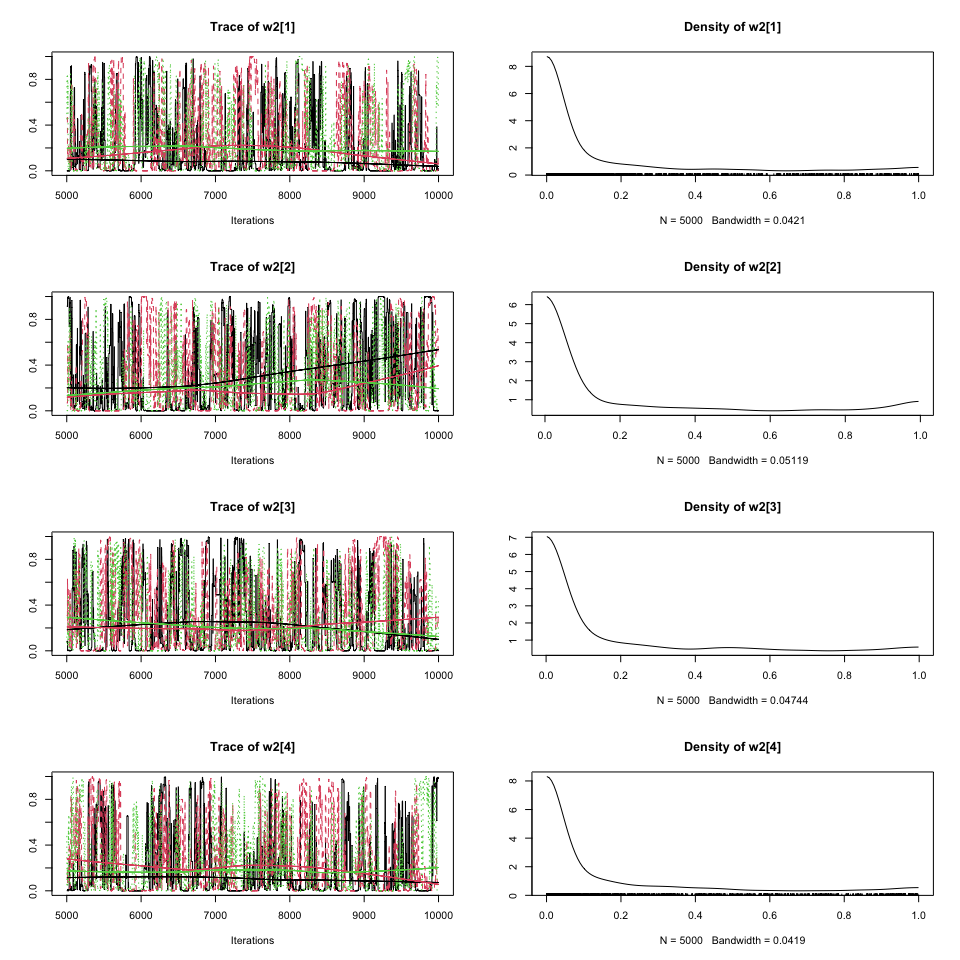
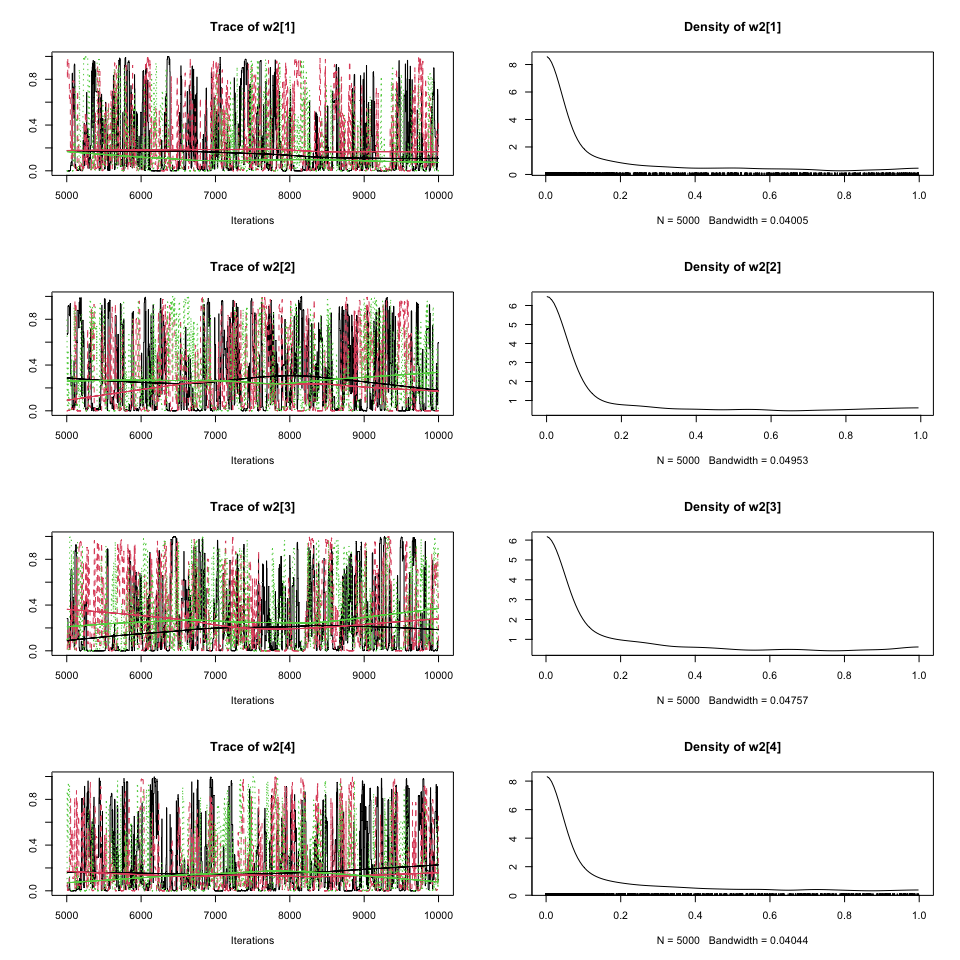
added new readme render

diff --git a/README.md b/README.md
@@ -64,8 +64,18 @@ You can install the development version of fgwqsr from
 # install.packages("devtools")
 remotes::install_github("Daniel-Rud/fgwqsr")
 #> Using github PAT from envvar GITHUB_PAT. Use `gitcreds::gitcreds_set()` and unset GITHUB_PAT in .Renviron (or elsewhere) if you want to use the more secure git credential store instead.
-#> Skipping install of 'fgwqsr' from a github remote, the SHA1 (883d80c2) has not changed since last install.
-#>   Use `force = TRUE` to force installation
+#> Downloading GitHub repo Daniel-Rud/fgwqsr@HEAD
+#> 
+#> ── R CMD build ─────────────────────────────────────────────────────────────────
+#>      checking for file ‘/private/var/folders/b4/9kg7p6cj729_pzc5dggk_9jm0000gn/T/RtmpelvZTp/remotes121c86043a123/Daniel-Rud-fgwqsr-8814766/DESCRIPTION’ ...  ✔  checking for file ‘/private/var/folders/b4/9kg7p6cj729_pzc5dggk_9jm0000gn/T/RtmpelvZTp/remotes121c86043a123/Daniel-Rud-fgwqsr-8814766/DESCRIPTION’
+#>   ─  preparing ‘fgwqsr’:
+#>      checking DESCRIPTION meta-information ...  ✔  checking DESCRIPTION meta-information
+#>   ─  checking for LF line-endings in source and make files and shell scripts
+#>   ─  checking for empty or unneeded directories
+#>      Omitted ‘LazyData’ from DESCRIPTION
+#>   ─  building ‘fgwqsr_0.1.0.tar.gz’
+#>      
+#> 
 ```
 
 ``` r
@@ -415,7 +425,7 @@ summary(fgwqsr_fit)
 #> 
 #> Significance Codes: <0.001 '***' <0.01 '**' <0.05 '*' <0.10 '.' 
 #> 
-#> Total runtime for FGWQSR:  1.41 minutes on 10 cores.
+#> Total runtime for FGWQSR:  1.42 minutes on 10 cores.
 ```
 
 <br>
@@ -604,7 +614,7 @@ summary(fgwqsr_fit_adj)
 #> 
 #> Significance Codes: <0.001 '***' <0.01 '**' <0.05 '*' <0.10 '.' 
 #> 
-#> Total runtime for FGWQSR:  1.54 minutes on 10 cores.
+#> Total runtime for FGWQSR:  1.57 minutes on 10 cores.
 ```
 
 <br>
@@ -733,7 +743,7 @@ bgwqsr_fit = bgwqsr(formula = mod_formula_adj,
 #> Calling 3 simulations using the parallel method...
 #> Following the progress of chain 1 (the program will wait for all chains
 #> to finish before continuing):
-#> Welcome to JAGS 4.3.2 (official binary) on Sun Aug 31 12:02:50 2025
+#> Welcome to JAGS 4.3.2 (official binary) on Sun Aug 31 12:13:59 2025
 #> JAGS is free software and comes with ABSOLUTELY NO WARRANTY
 #> Loading module: basemod: ok
 #> Loading module: bugs: ok
@@ -777,72 +787,72 @@ the summaries object from the bgwqsr model.
 
 ``` r
 bgwqsr_fit$model$summaries
-#>                              Lower95        Median    Upper95         Mean
-#> B0                      -4.43934e+00 -3.2593150000 -2.0041900 -3.249777458
-#> B1                      -7.56010e-01 -0.7136870000 -0.6705880 -0.713888593
-#> B2                      -4.61841e-02 -0.0051817650  0.0328981 -0.005899786
-#> B3                       3.71707e-01  0.4149585000  0.4568890  0.415020006
-#> phi_weight               3.22949e-02  0.0500865000  0.0677843  0.049990977
-#> phi_city_San_Bernardino -4.19186e-02  0.0024474350  0.0503781  0.003406272
-#> phi_city_Santa_Barbara  -5.00487e-02 -0.0017176400  0.0402956 -0.002656301
-#> w1[1]                    3.01228e-01  0.3502760000  0.3929330  0.349741604
-#> w1[2]                    3.06194e-01  0.3540270000  0.3985910  0.353532380
-#> w1[3]                    2.39543e-01  0.2836020000  0.3320420  0.283558504
-#> w1[4]                    1.23978e-06  0.0074291300  0.0348785  0.010964780
-#> w1[5]                    5.43631e-10  0.0004581505  0.0102544  0.002202719
-#> w2[1]                    3.62446e-13  0.0656404000  0.8990580  0.226507697
-#> w2[2]                    1.74418e-12  0.1260560000  0.9524030  0.288679540
-#> w2[3]                    5.50898e-10  0.1049675000  0.9135490  0.256335102
-#> w2[4]                    7.64668e-12  0.0769490000  0.8976790  0.228477661
-#> w3[1]                    2.31447e-01  0.3223415000  0.4068100  0.322759097
-#> w3[2]                    2.14002e-01  0.3020400000  0.3887550  0.301980482
-#> w3[3]                    1.74584e-01  0.2615150000  0.3482410  0.261260118
-#> w3[4]                    2.50931e-05  0.1093080000  0.1850880  0.106805503
-#> w3[5]                    4.67179e-11  0.0011895800  0.0364765  0.007194815
+#>                              Lower95       Median    Upper95         Mean
+#> B0                      -4.51673e+00 -3.234565000 -2.0556200 -3.240077827
+#> B1                      -7.55912e-01 -0.712505500 -0.6699580 -0.712707515
+#> B2                      -4.60343e-02 -0.006361070  0.0308357 -0.006839838
+#> B3                       3.71839e-01  0.414750500  0.4566030  0.414595520
+#> phi_weight               3.18810e-02  0.049787700  0.0679265  0.049852758
+#> phi_city_San_Bernardino -4.42564e-02  0.001908540  0.0482238  0.002743681
+#> phi_city_Santa_Barbara  -4.99132e-02 -0.002199065  0.0414722 -0.003038943
+#> w1[1]                    3.04301e-01  0.353853000  0.3984010  0.353346952
+#> w1[2]                    3.07197e-01  0.353501000  0.4004670  0.353768675
+#> w1[3]                    2.38390e-01  0.284111000  0.3318060  0.284609213
+#> w1[4]                    8.79485e-07  0.002227950  0.0242490  0.005940134
+#> w1[5]                    3.09730e-08  0.000229071  0.0115766  0.002335033
+#> w2[1]                    1.80818e-09  0.073018950  0.8729500  0.219533553
+#> w2[2]                    2.53242e-10  0.124019000  0.9152900  0.283659605
+#> w2[3]                    8.74800e-12  0.142057000  0.9123200  0.276559296
+#> w2[4]                    2.88558e-08  0.079288600  0.8521550  0.220247550
+#> w3[1]                    2.33887e-01  0.325652000  0.4128360  0.325486426
+#> w3[2]                    2.16828e-01  0.300339000  0.3932940  0.301239531
+#> w3[3]                    1.74056e-01  0.260643000  0.3567910  0.261618549
+#> w3[4]                    9.07646e-04  0.109226500  0.1878680  0.106964416
+#> w3[5]                    5.19473e-09  0.000166607  0.0245559  0.004691055
 #>                                  SD Mode        MCerr MC%ofSD SSeff
-#> B0                      0.619138986   NA 0.0070012727     1.1  7820
-#> B1                      0.021798528   NA 0.0002541620     1.2  7356
-#> B2                      0.020005948   NA 0.0006164046     3.1  1053
-#> B3                      0.021699834   NA 0.0003259813     1.5  4431
-#> phi_weight              0.009060308   NA 0.0001026140     1.1  7796
-#> phi_city_San_Bernardino 0.022138959   NA 0.0002092328     0.9 11196
-#> phi_city_Santa_Barbara  0.021654265   NA 0.0002000105     0.9 11721
-#> w1[1]                   0.023326452   NA 0.0005518004     2.4  1787
-#> w1[2]                   0.023535439   NA 0.0005475673     2.3  1847
-#> w1[3]                   0.023885423   NA 0.0006003005     2.5  1583
-#> w1[4]                   0.012052238   NA 0.0015364066    12.7    62
-#> w1[5]                   0.003975055   NA 0.0005005962    12.6    63
-#> w2[1]                   0.299696829   NA 0.0167501801     5.6   320
-#> w2[2]                   0.330415789   NA 0.0192045724     5.8   296
-#> w2[3]                   0.306218828   NA 0.0152229069     5.0   405
-#> w2[4]                   0.293816447   NA 0.0165985827     5.6   313
-#> w3[1]                   0.045024613   NA 0.0011518839     2.6  1528
-#> w3[2]                   0.045028418   NA 0.0012013815     2.7  1405
-#> w3[3]                   0.045593603   NA 0.0012800529     2.8  1269
-#> w3[4]                   0.048495136   NA 0.0023947361     4.9   410
-#> w3[5]                   0.012696709   NA 0.0012073123     9.5   111
-#>                                AC.10      psrf
-#> B0                       0.009456738 1.0001015
-#> B1                       0.024873619 1.0043675
-#> B2                       0.192501300 1.0033203
-#> B3                       0.049896456 1.0029526
-#> phi_weight               0.009362598 0.9999636
-#> phi_city_San_Bernardino -0.009769222 1.0001111
-#> phi_city_Santa_Barbara  -0.005254866 1.0002181
-#> w1[1]                    0.095844463 1.0158148
-#> w1[2]                    0.092911928 1.0108755
-#> w1[3]                    0.123937097 1.0090403
-#> w1[4]                    0.906682497 1.5615411
-#> w1[5]                    0.897124928 4.2487493
-#> w2[1]                    0.562383546 1.0298180
-#> w2[2]                    0.600222190 1.0749073
-#> w2[3]                    0.542187180 1.0117805
-#> w2[4]                    0.555995299 1.0233872
-#> w3[1]                    0.170776309 1.0088396
-#> w3[2]                    0.166089800 1.0072381
-#> w3[3]                    0.192731196 1.0144361
-#> w3[4]                    0.593465888 1.0354140
-#> w3[5]                    0.817200035 2.4872803
+#> B0                      0.626959500   NA 0.0071901968     1.1  7603
+#> B1                      0.021856942   NA 0.0002490331     1.1  7703
+#> B2                      0.019647701   NA 0.0005323049     2.7  1362
+#> B3                      0.021767741   NA 0.0003117522     1.4  4875
+#> phi_weight              0.009157264   NA 0.0001067935     1.2  7353
+#> phi_city_San_Bernardino 0.022078554   NA 0.0002027716     0.9 11856
+#> phi_city_Santa_Barbara  0.022033935   NA 0.0001996468     0.9 12180
+#> w1[1]                   0.023802653   NA 0.0005695187     2.4  1747
+#> w1[2]                   0.023936764   NA 0.0005643569     2.4  1799
+#> w1[3]                   0.024260656   NA 0.0005943187     2.4  1666
+#> w1[4]                   0.008534823   NA 0.0012082987    14.2    50
+#> w1[5]                   0.004925966   NA 0.0004853203     9.9   103
+#> w2[1]                   0.283558992   NA 0.0130010415     4.6   476
+#> w2[2]                   0.319709746   NA 0.0153566404     4.8   433
+#> w2[3]                   0.307104507   NA 0.0144209047     4.7   454
+#> w2[4]                   0.280572692   NA 0.0124012762     4.4   512
+#> w3[1]                   0.046271693   NA 0.0012691338     2.7  1329
+#> w3[2]                   0.045269872   NA 0.0012065383     2.7  1408
+#> w3[3]                   0.046845087   NA 0.0013317882     2.8  1237
+#> w3[4]                   0.050891020   NA 0.0028554960     5.6   318
+#> w3[5]                   0.012826129   NA 0.0016683974    13.0    59
+#>                                AC.10     psrf
+#> B0                      -0.019209941 1.000450
+#> B1                       0.011448491 1.005023
+#> B2                       0.156969017 1.001026
+#> B3                       0.032430960 1.003198
+#> phi_weight              -0.019678517 1.000449
+#> phi_city_San_Bernardino -0.007921566 1.000239
+#> phi_city_Santa_Barbara  -0.019274547 1.000421
+#> w1[1]                    0.106027568 1.010543
+#> w1[2]                    0.083389597 1.005137
+#> w1[3]                    0.117619789 1.006981
+#> w1[4]                    0.911847123 1.492687
+#> w1[5]                    0.927279147 3.717224
+#> w2[1]                    0.515293919 1.031223
+#> w2[2]                    0.557117046 1.063476
+#> w2[3]                    0.522599017 1.060445
+#> w2[4]                    0.499738604 1.009667
+#> w3[1]                    0.199308931 1.004396
+#> w3[2]                    0.195566134 1.004504
+#> w3[3]                    0.250774293 1.004680
+#> w3[4]                    0.639730871 1.032039
+#> w3[5]                    0.853183850 1.234071
 ```
 
 We can analyze the mixing of the markov chains and corresponding
